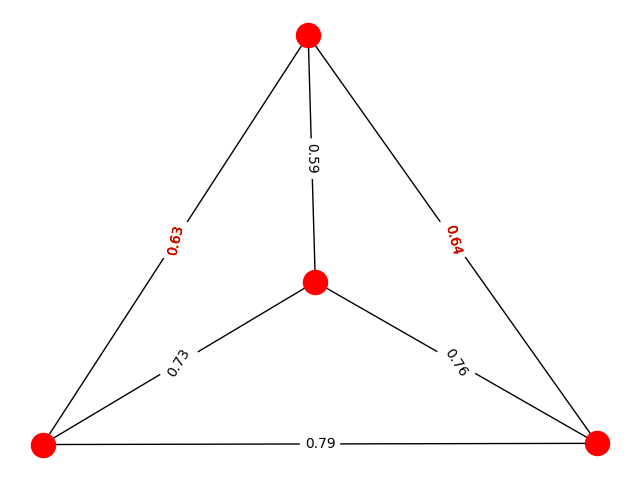
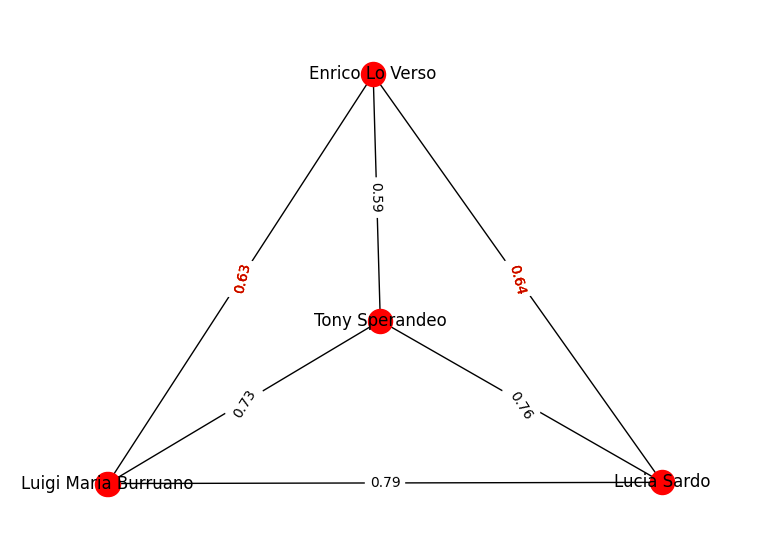
add node labels to graph plots

diff --git a/src/experiments/visualization/link_weight_prediction.py b/src/experiments/visualization/link_weight_prediction.py
@@ -4,6 +4,7 @@ import networkx as nx
 import matplotlib.pyplot as plt
 from src.processing.GAE_on_actors import LinkWeightPredictor
 from src.utils.mathematical import get_all_pairs
+from src.utils.TM_dataset import actor_name
 
 
 def extract_candidate_subgraph(graph, size_range=(10, 20), weight_range=(.45, .75)):
@@ -17,7 +18,7 @@ def extract_candidate_subgraph(graph, size_range=(10, 20), weight_range=(.45, .7
             return subgraph
 
 
-def show_graph(graph, pos, new_color=False):
+def show_graph(graph, pos, node_labels, new_color=False):
     edge_labels = nx.get_edge_attributes(graph, 'weight')
     for e in edge_labels:
         edge_labels[e] = int(edge_labels[e] * 1e2) / 1e2
@@ -25,9 +26,16 @@ def show_graph(graph, pos, new_color=False):
                                  edge_labels=edge_labels,
                                  pos=pos)
     if new_color:
-        nx.draw(graph, pos, node_color='red')
+        nx.draw(graph, pos, with_labels=True, labels=node_labels, node_color='red')
     else:
-        nx.draw(graph, pos)
+        nx.draw(graph, pos, with_labels=True, labels=node_labels)
+
+    # to prevent the graphic from being cut off
+    plt.axis('off')
+    axis = plt.gca()
+    axis.set_xlim([1.4 * x for x in axis.get_xlim()])
+    axis.set_ylim([1.4 * y for y in axis.get_ylim()])
+    plt.tight_layout()
     plt.show()
 
 
@@ -42,6 +50,8 @@ def predict_plot_graphs(predictor, graph):
         weight = predictor.predict(pair[0], pair[1])
         predicted_edges.append((*pair, {'weight': weight}))
 
+    node_labels = {n: actor_name(n) for n in graph.nodes}
+
     pos = nx.spring_layout(graph)
 
     graph = nx.Graph()
@@ -50,8 +60,8 @@ def predict_plot_graphs(predictor, graph):
     predicted_graph = nx.Graph()
     predicted_graph.add_edges_from(predicted_edges)
 
-    show_graph(graph, pos)
-    show_graph(predicted_graph, pos, new_color=True)
+    show_graph(graph, pos, node_labels)
+    show_graph(predicted_graph, pos, node_labels, new_color=True)
 
 
 if __name__ == '__main__':
@@ -59,9 +69,9 @@ if __name__ == '__main__':
     graph = pickle.load(open(graph_file_path, 'rb'))
     predictor = LinkWeightPredictor()
 
-    subgraph = extract_candidate_subgraph(graph)
+    # subgraph = extract_candidate_subgraph(graph)
     # a large subgraph: nodes {87676, 13506, 65476, 143716, 92710, 220295, 13514, 116202, 44366, 82420, 45749, 82422, 82423, 79448, 45754, 43708, 220990}: weights in range 0.45 0.752
-    predict_plot_graphs(predictor, subgraph)
+    # predict_plot_graphs(predictor, subgraph)
 
     subgraph = extract_candidate_subgraph(graph, size_range=(3, 15), weight_range=(.5, .8))
     # a small subgraph: nodes {27392, 129571, 120656, 126975}: weights in range [0.495, 0.865]

diff --git a/src/experiments/co_star_suggestion.py b/src/experiments/co_star_suggestion.py
@@ -31,8 +31,8 @@ def test_known_costars():
     rating_predictor, actors_id = get_rating_predictor()
     for duo in top_duos:
         try:
-            duo_0 = actor_id(duo[0])[0]
-            duo_1 = actor_id(duo[1])[0]
+            duo_0 = actor_id(duo[0])
+            duo_1 = actor_id(duo[1])
             edges_weights, __ = rating_predictor(duo_0)
             print(
                 str(duo[0]) + "->" + str(duo[1]) + ": " + str(target_actor_weight(duo_1, actors_id, edges_weights)))

diff --git a/src/utils/TM_dataset.py b/src/utils/TM_dataset.py
@@ -197,7 +197,8 @@ def actor_name(actor_id):
     :return: credits.cast.name
     """
     prepare_actors()
-    return __actors_id_name[actor_id]
+    return __actors_id_name[actor_id][0]
+
 
 def actor_id(actor_name):
     """
@@ -205,7 +206,7 @@ def actor_id(actor_name):
     :return: credits.cast.name
     """
     prepare_actors()
-    return __actors_name_id[actor_name]
+    return __actors_name_id[actor_name][0]
 
 
 def get_top_actors(n):

diff --git a/src/experiments/visualization/GAE_latent_space.py b/src/experiments/visualization/GAE_latent_space.py
@@ -15,7 +15,7 @@ def prepare_data():
     for actor in get_top_actors(__plot_size):
         try:
             data.append(latent_vector_generator(actor))
-            names.append(actor_name(actor)[0])
+            names.append(actor_name(actor))
         except:
             pass
     return [data, names]
